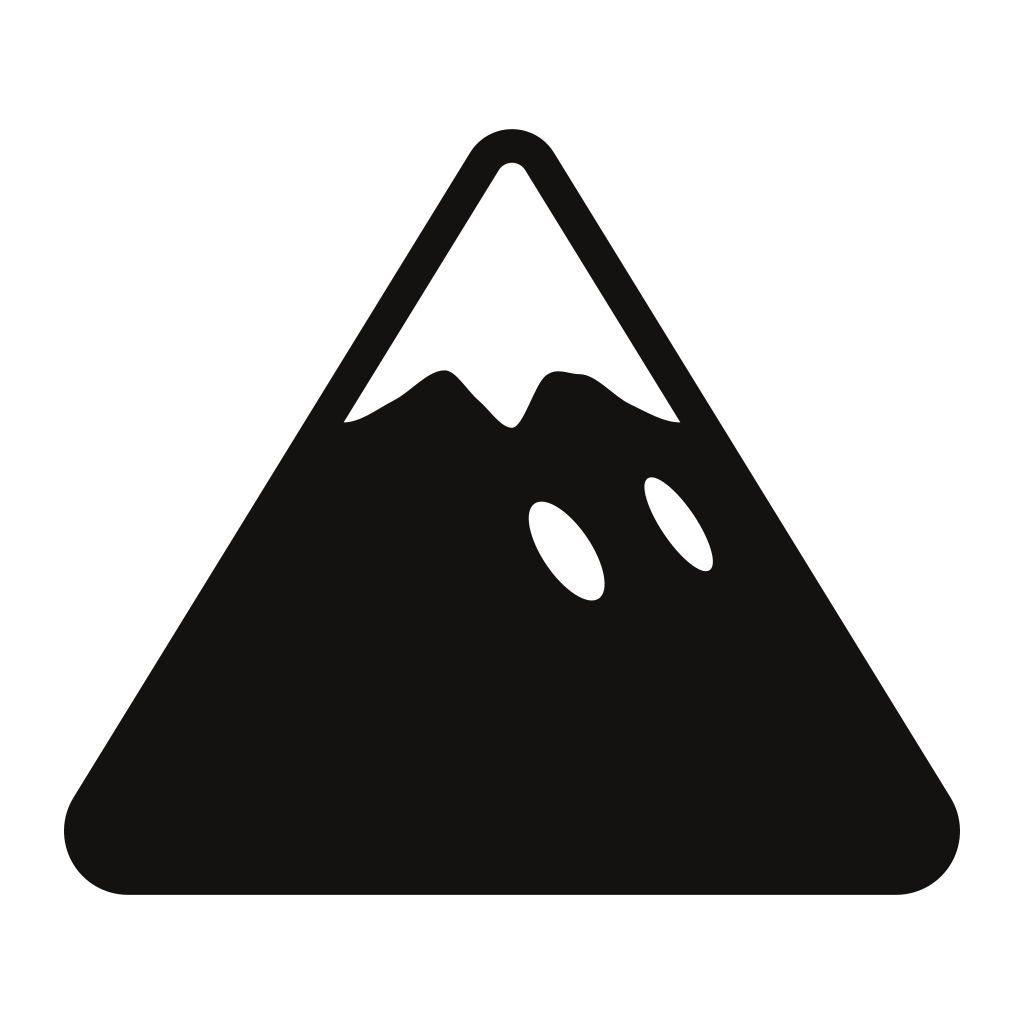
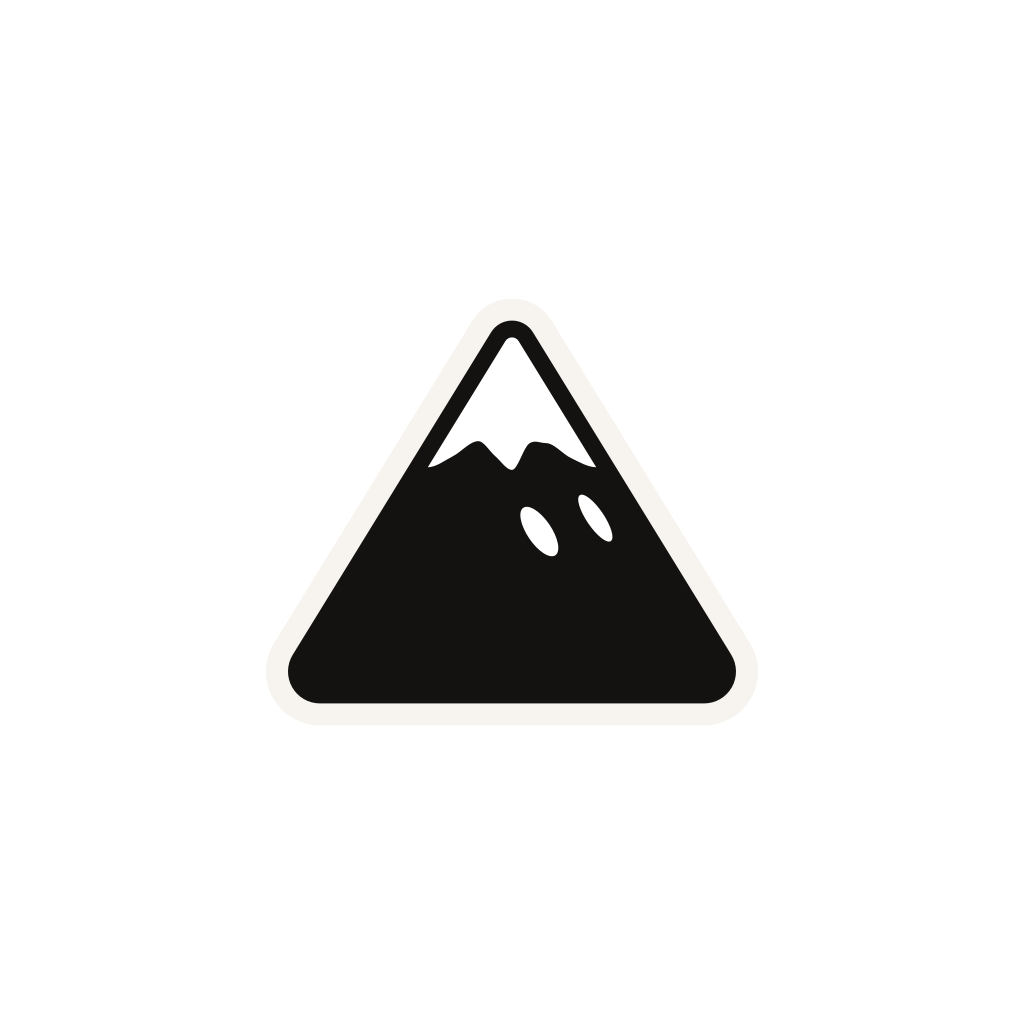
Keep the Atlas mountain visible on Android: cream rim on a clear background, art inside the adaptive safe zone.
Pixel paints a clear adaptive background black, which hid the ink mountain, and the
full-bleed foreground and monochrome layers were cropped by the launcher mask.
Icon changes ship in a native build (EAS/APK), not an OTA update.

Changed region(s): [[0.0625, 0.125, 0.9375, 0.875]]

diff --git a/packages/ui-tokens/scripts/export-brand.ts b/packages/ui-tokens/scripts/export-brand.ts
@@ -74,16 +74,43 @@ await png(mark, "packages/ui-tokens/assets/Atlas.icon/Assets/atlas-globe.png", 1
 // macOS pre-Tahoe development icon. The mountain already sits inside the canvas.
 await png(mark, "apps/desktop/assets/icon-macos.png", 1024);
 
-// Expo: the legacy icon and Android foreground are the mountain on transparent.
-// The adaptive background stays clear so the launcher does not paint a plate behind it.
-await png(mark, "apps/mobile/assets/icon.png", 1024);
+// Expo / Android. Launchers paint a clear adaptive background black (Pixel does), so the ink
+// mountain gets a cream rim that keeps it visible on black and on light or dark wallpapers
+// without a solid plate. Adaptive layers are 108dp and the mask can crop anything outside the
+// central 66dp circle, so launcher art is scaled to sit inside that safe zone.
+const MOBILE_RIM = "#F7F4EF";
+const SAFE_ZONE_SCALE = 0.5;
+const mountainPath = /<path fill="#141210" d="([^"]+)"/.exec(appIcon)?.[1];
+const markArt = /<g transform="scale\(2\)">([\s\S]*?)<\/g>/.exec(appIcon)?.[1];
+const monochromeArt = /<g transform="scale\(2\)">([\s\S]*?)<\/g>/.exec(monochrome)?.[1];
+if (!mountainPath || !markArt || !monochromeArt) throw new Error("Brand SVG layout changed.");
+
+/** The 512-unit mountain artwork centred on a 1024 canvas at `scale` of the canvas width. */
+function mobileCanvas(scale: number, body: string, defs = "") {
+  const transform = `translate(512 512) scale(${2 * scale}) translate(-256 -256)`;
+  return `<svg xmlns="http://www.w3.org/2000/svg" viewBox="0 0 1024 1024" width="1024" height="1024">${defs}<g transform="${transform}">${body}</g></svg>`;
+}
+/** Ink mountain with a cream rim, on transparent. */
+const rimmedMark = (scale: number) =>
+  mobileCanvas(
+    scale,
+    `<path d="${mountainPath}" fill="${MOBILE_RIM}" stroke="${MOBILE_RIM}" stroke-width="44" stroke-linejoin="round"/>${markArt}`,
+  );
+/** Single-colour white silhouette with the snow and eyes cut out (themed and notification icons). */
+function silhouetteMark(scale: number) {
+  const transform = `translate(512 512) scale(${2 * scale}) translate(-256 -256)`;
+  return `<svg xmlns="http://www.w3.org/2000/svg" viewBox="0 0 1024 1024" width="1024" height="1024"><mask id="atlas-knockout"><g transform="${transform}">${monochromeArt}</g></mask><rect width="1024" height="1024" fill="#FFFFFF" mask="url(#atlas-knockout)"/></svg>`;
+}
+
+// The legacy icon (pre-Android 8 and some third-party launchers) is the rimmed mountain on clear.
+await png(rimmedMark(0.9), "apps/mobile/assets/icon.png", 1024);
 await sharp({
   create: { width: 1024, height: 1024, channels: 4, background: { r: 0, g: 0, b: 0, alpha: 0 } },
 })
   .png()
   .toFile(path("apps/mobile/assets/icon-background.png"));
-await png(mark, "apps/mobile/assets/adaptive-icon.png", 1024);
-await png(monochrome, "apps/mobile/assets/monochrome-icon.png", 1024);
+await png(rimmedMark(SAFE_ZONE_SCALE), "apps/mobile/assets/adaptive-icon.png", 1024);
+await png(silhouetteMark(SAFE_ZONE_SCALE), "apps/mobile/assets/monochrome-icon.png", 1024);
 const splashPad = { top: 202, bottom: 202, left: 202, right: 202, background: "#00000000" };
 await render(mark, 620).extend(splashPad).png().toFile(path("apps/mobile/assets/splash-icon.png"));
 await render(monochrome, 620)
@@ -91,12 +118,9 @@ await render(monochrome, 620)
   .png()
   .toFile(path("apps/mobile/assets/splash-icon-dark.png"));
 
-// Android notification icons must be white alpha silhouettes.
-const silhouette = await sharp(path("apps/mobile/assets/monochrome-icon.png"))
-  .resize(72, 72)
-  .extractChannel("alpha")
-  .toBuffer();
-await sharp({ create: { width: 72, height: 72, channels: 3, background: "white" } })
+// Android notification icons must be white alpha silhouettes with a little padding.
+const silhouette = await render(silhouetteMark(0.84), 96).extractChannel("alpha").toBuffer();
+await sharp({ create: { width: 96, height: 96, channels: 3, background: "white" } })
   .joinChannel(silhouette)
   .png()
   .toFile(path("apps/mobile/assets/notification-icon.png"));

diff --git a/packages/ui-tokens/assets/README.md b/packages/ui-tokens/assets/README.md
@@ -34,8 +34,13 @@ rewrites every raster at its existing path:
 - `Atlas.icon/Assets/atlas-globe.png`, the single layer of the Icon Composer
   source used for macOS and iOS. `icon.json` leaves the fill clear.
 
-Android supplies its own mask; never bake Mac corners, a rim, or an outer shadow
-into the adaptive layers.
+Android supplies its own mask; never bake Mac corners or an outer shadow into the
+adaptive layers. The adaptive background stays clear, but Pixel and most launchers
+paint a clear adaptive background black, so the Android foreground and legacy
+`icon.png` give the ink mountain a cream (`#F7F4EF`) rim that keeps it visible on
+black and on light or dark wallpapers. Android launcher art (`adaptive-icon.png`,
+`monochrome-icon.png`) is scaled to fit the central 66dp safe zone of the 108dp
+layer so the mask never crops the peak or the base.
 
 After exporting, run `pnpm exec tsx apps/www/scripts/render-og.mjs` to refresh the
 per-page social cards; set `CHROME_PATH` to a headless Chrome executable when it
